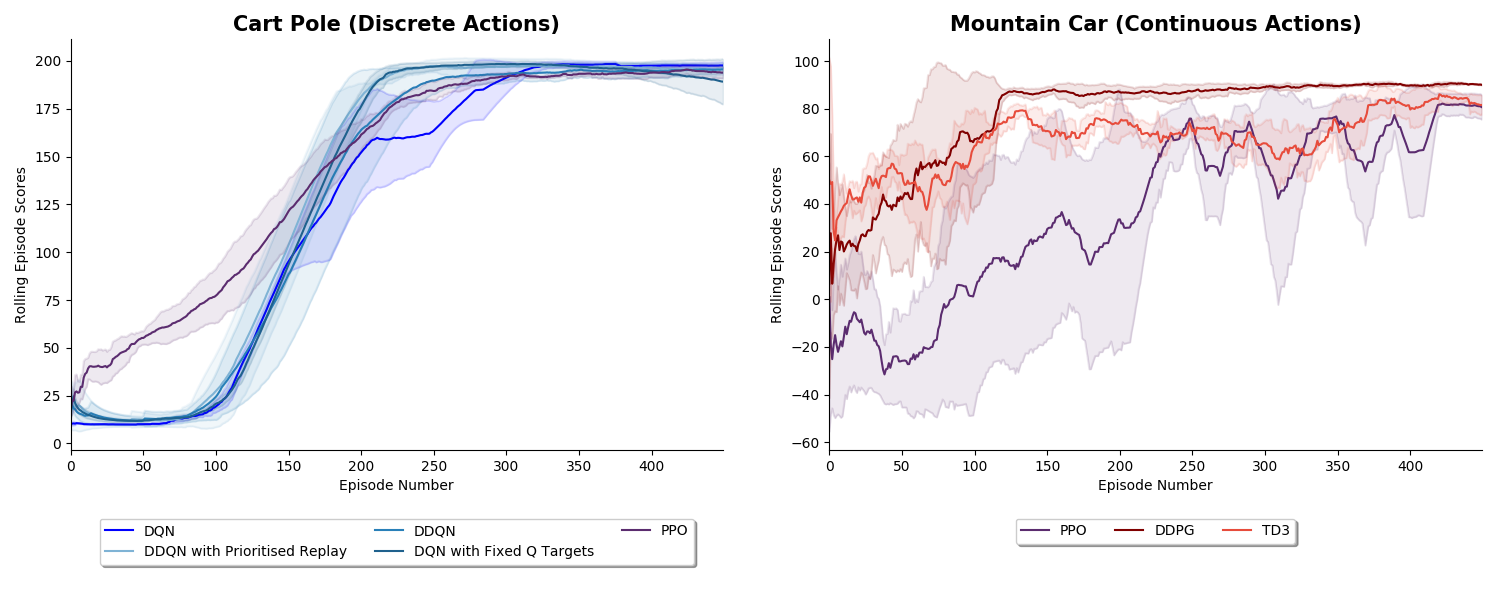
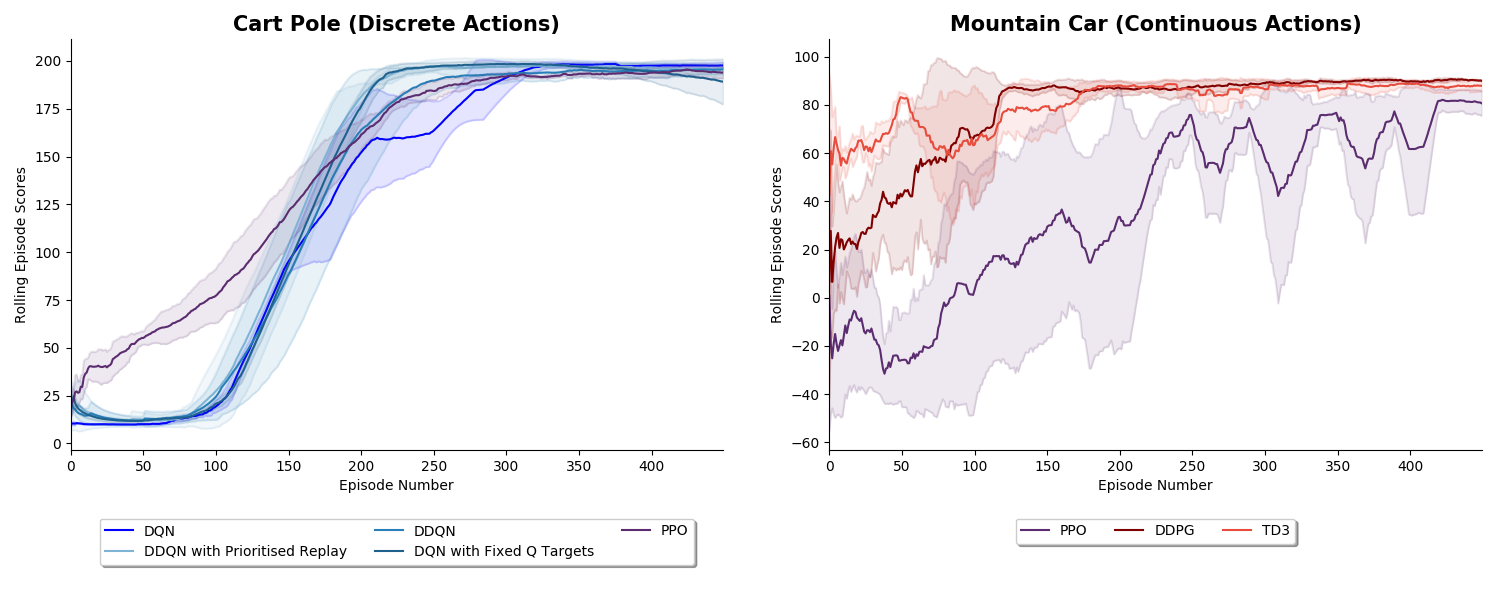
updated TD3 graph

diff --git a/Results/Mountain_Car.py b/Results/Mountain_Car.py
@@ -68,7 +68,7 @@ config.hyperparameters = {
         "action_noise_std": 0.2,  # for TD3
         "action_noise_clipping_range": 0.5,  # for TD3
         "update_every_n_steps": 20,
-        "learning_updates_per_learning_session": 3,
+        "learning_updates_per_learning_session": 10,
 
     }
 }
